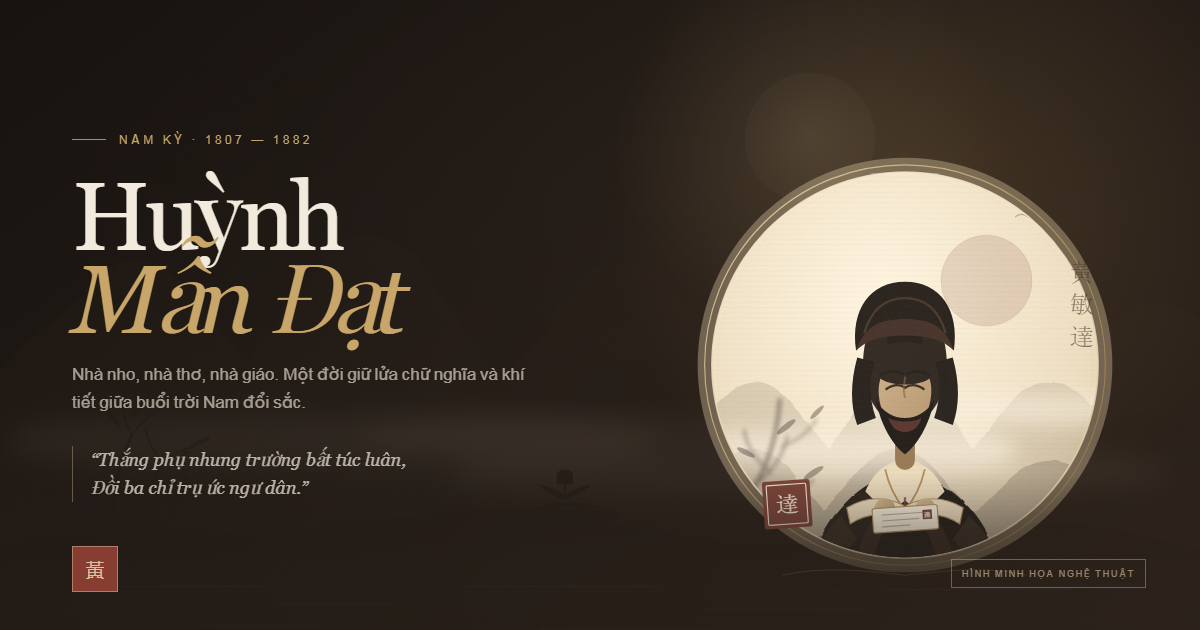
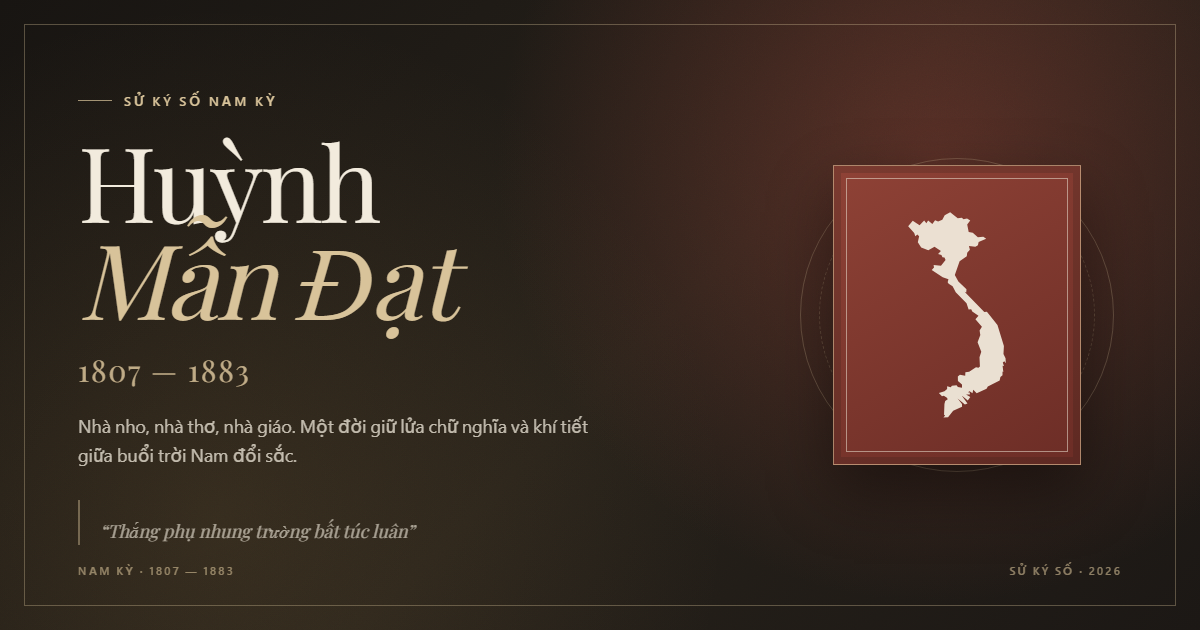
Update project

diff --git a/index.html b/index.html
@@ -30,7 +30,6 @@
       "@context": "https://schema.org",
       "@type": "Person",
       "name": "Huỳnh Mẫn Đạt",
-      "alternateName": "黃敏達",
       "birthDate": "1807",
       "deathDate": "1883",
       "birthPlace": "Tân Hội, Tân Long, Gia Định",
@@ -49,7 +48,7 @@
   <header class="site-header" data-header>
     <div class="shell header-inner">
       <a class="brand" href="#trang-chu" aria-label="Huỳnh Mẫn Đạt — về đầu trang">
-        <span class="brand-seal" aria-hidden="true">黃</span>
+        <span class="brand-seal" aria-hidden="true"><img src="assets/images/art/vietnam-map.svg" alt=""></span>
         <span class="brand-text">
           <strong>Huỳnh Mẫn Đạt</strong>
           <small>1807 — 1883</small>
@@ -96,8 +95,7 @@
           <span class="hero-figure-back" aria-hidden="true"></span>
           <div class="hero-frame">
             <img src="assets/images/art/hero-scholar.svg" alt="Hình minh họa một nhà nho Việt Nam bên nghiên mực và sách cổ" width="760" height="920" fetchpriority="high">
-            <span class="hero-han" aria-hidden="true">黃敏達</span>
-            <span class="hero-stamp" aria-hidden="true">守節</span>
+            <span class="hero-stamp" aria-hidden="true"><img src="assets/images/art/vietnam-map.svg" alt=""></span>
           </div>
           <figcaption>Hình minh họa nghệ thuật — không phải chân dung tư liệu.</figcaption>
         </figure>
@@ -382,10 +380,9 @@
             <div class="book-object">
               <div class="book-cover">
                 <span class="book-kicker">Thơ chữ Hán</span>
-                <span class="book-han" aria-hidden="true">悼阮忠直</span>
                 <h3>Điếu<br>Nguyễn Trung Trực</h3>
                 <span class="book-author">Huỳnh Mẫn Đạt</span>
-                <span class="book-seal" aria-hidden="true">黃敏達</span>
+                <span class="book-seal" aria-hidden="true"><img src="assets/images/art/vietnam-map.svg" alt=""></span>
               </div>
               <div class="book-pages" id="poem-pages">
                 <article class="book-page is-active" data-page="0">
@@ -548,7 +545,7 @@
           <a class="button button-primary" href="#nguon">Đọc nguồn tham khảo</a>
           <a class="button button-ghost" href="#trang-chu">Về đầu trang</a>
         </div>
-        <div class="conclusion-seal" aria-hidden="true"><span>守節</span></div>
+        <div class="conclusion-seal" aria-hidden="true"><img src="assets/images/art/vietnam-map.svg" alt=""></div>
       </div>
     </section>
 
@@ -617,7 +614,7 @@
   <footer class="site-footer">
     <div class="shell footer-grid">
       <div class="footer-brand">
-        <span class="brand-seal" aria-hidden="true">黃</span>
+        <span class="brand-seal" aria-hidden="true"><img src="assets/images/art/vietnam-map.svg" alt=""></span>
         <div>
           <strong>Huỳnh Mẫn Đạt</strong>
           <p>Một đời nho sĩ giữa hai thế kỷ.<br>Một ký ức của đất Nam Kỳ.</p>

diff --git a/assets/css/sections.css b/assets/css/sections.css
@@ -154,17 +154,6 @@
   filter: sepia(0.18) saturate(0.82) contrast(1.02);
 }
 
-.hero-han {
-  position: absolute;
-  top: 28px;
-  right: -18px;
-  color: rgba(216, 195, 154, 0.72);
-  font-family: var(--font-han);
-  font-size: 0.9rem;
-  letter-spacing: 0.22em;
-  writing-mode: vertical-rl;
-}
-
 .hero-stamp {
   position: absolute;
   right: 24px;
@@ -176,10 +165,17 @@
   border: 1px solid rgba(216, 195, 154, 0.5);
   background: rgba(135, 61, 50, 0.9);
   color: var(--gold);
-  font-family: var(--font-han);
-  font-size: 0.62rem;
-  letter-spacing: 0.12em;
-  writing-mode: vertical-rl;
+}
+
+.hero-stamp img {
+  position: absolute;
+  top: 15%;
+  left: 15%;
+  width: 70%;
+  height: 70%;
+  aspect-ratio: auto;
+  object-fit: contain;
+  filter: none;
 }
 
 .hero-figure figcaption {
@@ -812,15 +808,6 @@
   text-transform: uppercase;
 }
 
-.book-han {
-  margin-top: 22px;
-  color: rgba(216, 195, 154, 0.74);
-  font-family: var(--font-han);
-  font-size: clamp(1.2rem, 2vw, 1.6rem);
-  letter-spacing: 0.3em;
-  writing-mode: vertical-rl;
-}
-
 .book-cover h3 {
   margin-top: 20px;
   font-family: var(--font-display);
@@ -848,10 +835,15 @@
   border: 1px solid rgba(216, 195, 154, 0.5);
   background: rgba(135, 61, 50, 0.55);
   color: var(--gold);
-  font-family: var(--font-han);
-  font-size: 0.55rem;
-  letter-spacing: 0.1em;
-  writing-mode: vertical-rl;
+}
+
+.book-seal img {
+  position: absolute;
+  top: 15%;
+  left: 15%;
+  width: 70%;
+  height: 70%;
+  object-fit: contain;
 }
 
 .book-pages {
@@ -1450,6 +1442,7 @@
 }
 
 .conclusion-seal {
+  position: relative;
   display: grid;
   width: 74px;
   height: 74px;
@@ -1457,10 +1450,15 @@
   place-items: center;
   border: 1px solid rgba(216, 195, 154, 0.32);
   color: rgba(216, 195, 154, 0.55);
-  font-family: var(--font-han);
-  font-size: 0.72rem;
-  letter-spacing: 0.16em;
-  writing-mode: vertical-rl;
+}
+
+.conclusion-seal img {
+  position: absolute;
+  top: 15%;
+  left: 15%;
+  width: 70%;
+  height: 70%;
+  object-fit: contain;
 }
 
 .sources-layout {
@@ -1895,10 +1893,6 @@
 
   .book-cover {
     min-height: 330px;
-  }
-
-  .book-han {
-    display: none;
   }
 
   .book-pages {

diff --git a/assets/css/components.css b/assets/css/components.css
@@ -47,6 +47,7 @@
 }
 
 .brand-seal {
+  position: relative;
   display: grid;
   flex: 0 0 auto;
   width: 42px;
@@ -56,10 +57,17 @@
   background:
     linear-gradient(135deg, rgba(135, 61, 50, 0.92), rgba(108, 45, 38, 0.96));
   color: var(--gold);
-  font-family: var(--font-han);
-  font-size: 1.24rem;
   line-height: 1;
   box-shadow: inset 0 0 0 3px rgba(32, 28, 24, 0.2);
+}
+
+.brand-seal img {
+  position: absolute;
+  top: 15%;
+  left: 15%;
+  width: 70%;
+  height: 70%;
+  object-fit: contain;
 }
 
 .brand-text {

diff --git a/assets/css/base.css b/assets/css/base.css
@@ -19,7 +19,6 @@
   --shadow-deep: 0 30px 90px rgba(0, 0, 0, 0.34);
   --font-display: "Playfair Display", "Times New Roman", serif;
   --font-body: "Be Vietnam Pro", "Segoe UI", sans-serif;
-  --font-han: "Noto Serif CJK SC", "Songti SC", "SimSun", serif;
   --shell: min(1240px, calc(100vw - 64px));
   --header-h: 78px;
   --ease: cubic-bezier(0.22, 1, 0.36, 1);
